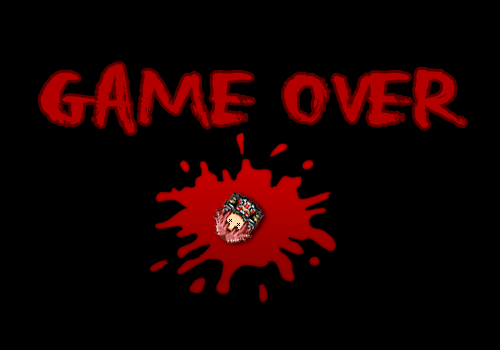
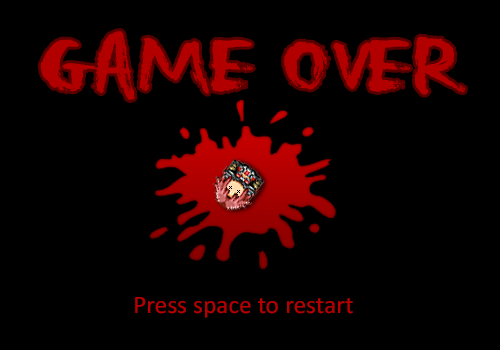
Proyecto HLC Version Final Funcionalidad Perfecta Perfectamente ordenado y comentado

Changed region(s): [[0.06, 0.0857, 0.72, 0.9143], [0.54, 0.0857, 0.96, 0.4]]

diff --git a/public_html/game.js b/public_html/game.js
@@ -28,6 +28,7 @@ function marcarBotones(x) {
             instrucciones.style.display = "none";
             about.style.display = "none";
             //La funcion init es la que inicia el juego
+            CONTMAP = 0;
             init();
             break;
             //Muestra las instrucciones
@@ -74,6 +75,7 @@ var player = null;
 var then = Date.now();
 var pause = false;
 var gameover;
+var win;
 
 //Variables para el key listener
 var keysDown = {};
@@ -89,8 +91,12 @@ var tabla = new Image();
 tabla.src = 'img/tabla.png';
 var piedra = new Image();
 piedra.src = 'img/piedra.png';
+var endingdoor = new Image();
+endingdoor.src = 'img/fin.png';
 var gameoverImg = new Image();
 gameoverImg.src = 'img/gameover.png';
+var winImg = new Image();
+winImg.src = 'img/win.png';
 
 //Componentes del mapa
 var stone;
@@ -100,7 +106,9 @@ var start;
 var finish;
 
 //Declaración de mapas
-var map = [
+var CONTMAP = 0;
+
+var m0 = [
     0, 0, 0, 0, 0, 0, 0, 0, 0, 0,
     0, 0, 4, 0, 1, 1, 1, 1, 1, 0,
     0, 1, 1, 0, 1, 0, 0, 0, 1, 0,
@@ -110,6 +118,33 @@ var map = [
     0, 0, 0, 0, 0, 0, 0, 0, 3, 0
 ];
 
+var m1 = [
+    0,0,0,0,0,0,0,0,0,0,
+    0,4,1,1,2,1,1,2,1,0,
+    0,0,0,0,0,0,0,0,1,0,
+    0,0,1,1,1,1,1,2,1,0,
+    0,0,2,0,0,0,0,0,0,0,
+    3,1,1,0,0,0,0,0,0,0,
+    0,0,0,0,0,0,0,0,0,0
+];
+    
+var m2 = [
+    0,0,0,0,0,3,0,0,0,0,
+    0,2,1,1,1,2,0,0,4,0,
+    0,1,0,0,0,0,0,0,1,0,
+    0,1,0,0,0,0,0,0,1,0,
+    0,1,0,0,0,0,0,0,1,0,
+    0,2,1,1,1,1,1,1,2,0,
+    0,0,0,0,0,0,0,0,0,0
+];
+
+var map = [m0, m1, m2];
+
+/*********************************************************************/
+/*                           Funciones                               */
+/*********************************************************************/
+
+//Para cargar el juego y cada pantalla
 function init() {
     stone = [];
     wood = [];
@@ -117,9 +152,11 @@ function init() {
     start = new Rectangle();
     finish = new Rectangle();
     gameover = false;
+    win = false;
     canvas = document.getElementById('canvas');
     ctx = canvas.getContext('2d');
-    setMap(map, 10, 50);
+    setMap(map[CONTMAP], 10, 50);
+    //Declaración y creación del personaje
     var spriteTiles = new Tileset('img/sprite.png', 32, 32);
     var spriteLeftAnim = new Animation(spriteTiles, ['0,1', '1,1', '2,1'], 200);
     var spriteRightAnim = new Animation(spriteTiles, ['0,2', '1,2', '2,2'], 200);
@@ -137,9 +174,7 @@ function init() {
             35, //Tamaño y
             100 //Velocidad
             );
-    
     setInterval(run, 10);
-    //run();
 }
 
 //Desglosar la matriz del mapa en arrays con los componentes
@@ -167,19 +202,15 @@ function setMap(map, columns, blockSize) {
     }
 }
 
-function imageLoaded() {
-    game.imagesLoaded++;
-}
-
+//Imagen para el sprite
 function Tileset(image, tileWidth, tileHeight) {
     this.image = new Image();
-    game.images++;
-    this.image.onload = imageLoaded;
     this.image.src = image;
     this.tileWidth = tileWidth;
     this.tileHeight = tileHeight;
 }
 
+//Datos de la animación
 function Animation(tileset, frames, frameDuration) {
     this.tileset = tileset;
     this.frames = frames;
@@ -188,6 +219,7 @@ function Animation(tileset, frames, frameDuration) {
     this.frameDuration = frameDuration;
 }
 
+//Datos del personaje
 function Sprite(stateAnimations, startingState, x, y, width, height, speed) {
     this.stateAnimations = stateAnimations;
     this.currentState = startingState;
@@ -198,6 +230,7 @@ function Sprite(stateAnimations, startingState, x, y, width, height, speed) {
     this.speed = speed;
 }
 
+//Dibujar el personaje
 function drawSprite(sprite) {
     ctx.drawImage(
             sprite.stateAnimations[sprite.currentState].tileset.image,
@@ -212,6 +245,7 @@ function drawSprite(sprite) {
             );
 }
 
+//Transacciones del sprite del personaje
 function updateAnimation(anim) {
     if (Date.now() - anim.frameTimer > anim.frameDuration) {
         if (anim.currentFrame < anim.frames.length - 1)
@@ -222,12 +256,27 @@ function updateAnimation(anim) {
     }
 }
 
-var game = {
-    images: 0,
-    imagesLoaded: 0,
-    backgroundColor: '#000'
-};
+//Función para crear objetos rectangulares.
+function Rectangle(x, y, width, height) {
+    this.x = (x == null) ? 0 : x;
+    this.y = (y == null) ? 0 : y;
+    this.width = (width == null) ? 0 : width;
+    this.height = (height == null) ? this.width : height;
+    this.state = 11;
+}
 
+/*********************************************************************/
+/*                          Controles                                */
+/*********************************************************************/
+
+//Hace correr el juego
+function run() {
+    update((Date.now() - then) / 1000);
+    render();
+    then = Date.now();
+}
+
+//Listeners
 window.addEventListener('keydown', function (e) {
     keysDown[e.keyCode] = true;
     lastPress = e.keyCode;
@@ -237,77 +286,65 @@ window.addEventListener('keyup', function (e) {
 });
 
 function update(mod) {
-    if(!pause && !gameover){
+    if(!pause && !gameover && !win){
+        //Tecla izquierda
         if (37 in keysDown) {
             player.currentState = 'left';
             player.x -= player.speed * mod;
             updateAnimation(player.stateAnimations[player.currentState]);
-            for(var i=0;i<black.length;i++){
-                if(player.intersects(black[i])){
-                    gameover = true;
-                }
-            }
-            interseccionMadera();
+            interseccion();
         }
+        //Tecla derecha
         else if (39 in keysDown) {
             player.currentState = 'right';
             player.x += player.speed * mod;
             updateAnimation(player.stateAnimations[player.currentState]);
-            for(var i=0;i<black.length;i++){
-                if(player.intersects(black[i])){
-                    gameover = true;
-                }
-            }
-            interseccionMadera();
+            interseccion();
         }
+        //Tecla arriba
         else if (38 in keysDown) {
             player.currentState = 'top';
             player.y -= player.speed * mod;
             updateAnimation(player.stateAnimations[player.currentState]);
-            for(var i=0;i<black.length;i++){
-                if(player.intersects(black[i])){
-                    gameover = true;
-                }
-            }
-            interseccionMadera();
+            interseccion();
             
         }
+        //Tecla abajo
         else if (40 in keysDown) {
             player.currentState = 'bot';
             player.y += player.speed * mod;
             updateAnimation(player.stateAnimations[player.currentState]);
-            for(var i=0;i<black.length;i++){
-                if(player.intersects(black[i])){
-                    gameover = true;
-                }
-            }
-            interseccionMadera();
-            
+            interseccion();
+        //Tecla P para la pausa
         } else if (lastPress == 80){
             pause = true;
             lastPress = null;
         } 
         
-            aTimer+=mod;
-            if(aTimer>1/10){
-                aTimer=0;
-                for(var i=0;i<wood.length;i++){
-                    if(wood[i].state < 10){
-                        wood[i].state++;
-                        if(wood[i].state == 10){
-                            black.push(wood[i]);
-                            var index = wood.indexOf(wood[i]);
-                            if (index > -1) {
-                                wood.splice(index, 1);
-                            }
-                        }
-                    } else if(wood[i].state > 11 && wood[i].state < 20) {
-                        wood[i].state++;
-                    } else if(wood[i].state == 20){
-                        wood[i].state = 0;
+        //Control por pulsos de tiempo
+        aTimer+=mod;
+        if(aTimer>1/10){
+            aTimer=0;
+            for(var i=0;i<wood.length;i++){
+                if(wood[i].state < 10){
+                    if(player.intersects(wood[i])){
+                        gameover = true;
                     }
+                    wood[i].state++;
+                    if(wood[i].state == 10){
+                        black.push(wood[i]);
+                        var index = wood.indexOf(wood[i]);
+                        if (index > -1) {
+                            wood.splice(index, 1);
+                        }
+                    }
+                } else if(wood[i].state > 11 && wood[i].state < 17) {
+                    wood[i].state++;
+                } else if(wood[i].state == 17){
+                    wood[i].state = 0;
                 }
             }
+        }
         
     } else if (lastPress == 80){
         pause = false;
@@ -315,18 +352,38 @@ function update(mod) {
     } else if (lastPress == 32){
         lastPress = null;
         gameover = false;
+        win = false;
+        CONTMAP = 0;
         init();
     }
 }
 
-function interseccionMadera(){
+//Control de las colisiones
+function interseccion(){
+    //Con el vacio
+    for(var i=0;i<black.length;i++){
+        if(player.intersects(black[i])){
+            gameover = true;
+        }
+    }
+    //Con las tablas
     for(var i=0;i<wood.length;i++){
         if(player.intersects(wood[i]) && wood[i].state==11){
             wood[i].state=12;
         }
     }
+    //Con la trampilla final
+    if(player.intersects(finish)){
+        CONTMAP++;
+        if(CONTMAP == map.length){
+            win = true;
+        } else {
+            init();
+        }
+    }
 }
 
+//Para saber cuando colisiona el personaje con los diferentes bloques
 Sprite.prototype.intersects = function (rect) {
     if (rect != null) {
         return(this.x < rect.x + rect.width -17 && //Izquierda
@@ -336,6 +393,10 @@ Sprite.prototype.intersects = function (rect) {
         //Los números que se restan son para compensar la posición del personaje
     }
 }
+
+/*********************************************************************/
+/*                        Dibujar canvas                             */
+/*********************************************************************/
 
 function render() {
     ctx.fillStyle = '#000';
@@ -356,42 +417,22 @@ function render() {
 
     //Pintar Inicio y fin
     ctx.drawImage(piedra, start.x, start.y);
-    ctx.drawImage(piedra, finish.x, finish.y);
+    ctx.drawImage(endingdoor, finish.x, finish.y);
 
     //Pintar Jugador
     drawSprite(player);
 
-    /*ctx.fillStyle = '#fff';
-     ctx.font = '15pt Arial';
-     ctx.textBaseline = 'top';
-     ctx.fillText('Arrow keys to move left and right', 15, 15);*/
+    //Diferentes estados del juego
     if(pause){
         ctx.fillStyle = '#fff';
         ctx.font = '80pt Arial';
         ctx.textBaseline = 'top';
         ctx.fillText('PAUSE!', 55, 95);
     }
-    
     if(gameover){
         ctx.drawImage(gameoverImg,0,0);
     }
-    
-}
-
-//Hace correr el juego
-function run() {
-    update((Date.now() - then) / 1000);
-    if (game.images == game.imagesLoaded) {
-        render();
-    }
-    then = Date.now();
-}
-
-//Función para crear objetos rectangulares.
-function Rectangle(x, y, width, height) {
-    this.x = (x == null) ? 0 : x;
-    this.y = (y == null) ? 0 : y;
-    this.width = (width == null) ? 0 : width;
-    this.height = (height == null) ? this.width : height;
-    this.state = 11;
+    if(win){
+        ctx.drawImage(winImg,0,0);
+    }  
 }

diff --git a/public_html/index.html b/public_html/index.html
@@ -12,9 +12,9 @@
         <div class="arriba">
             <h1 class="titulo">Cave Runner</h1>
             <div class="botones">
-                <a id="btInicio" name="inicio" onclick="marcarBotones(0);">Inicio</a>
-                <a id="btInstrucciones" name="inicio" onclick="marcarBotones(1);">Instrucciones</a>
-                <a id="btAbout" name="about" onclick="marcarBotones(2);">Acerca de</a>
+                <a id="btInicio" name="inicio" onclick="marcarBotones(0);">Start</a>
+                <a id="btInstrucciones" name="inicio" onclick="marcarBotones(1);">Controls</a>
+                <a id="btAbout" name="about" onclick="marcarBotones(2);">About</a>
                 <div class="clear"></div>
             </div>
         </div>
